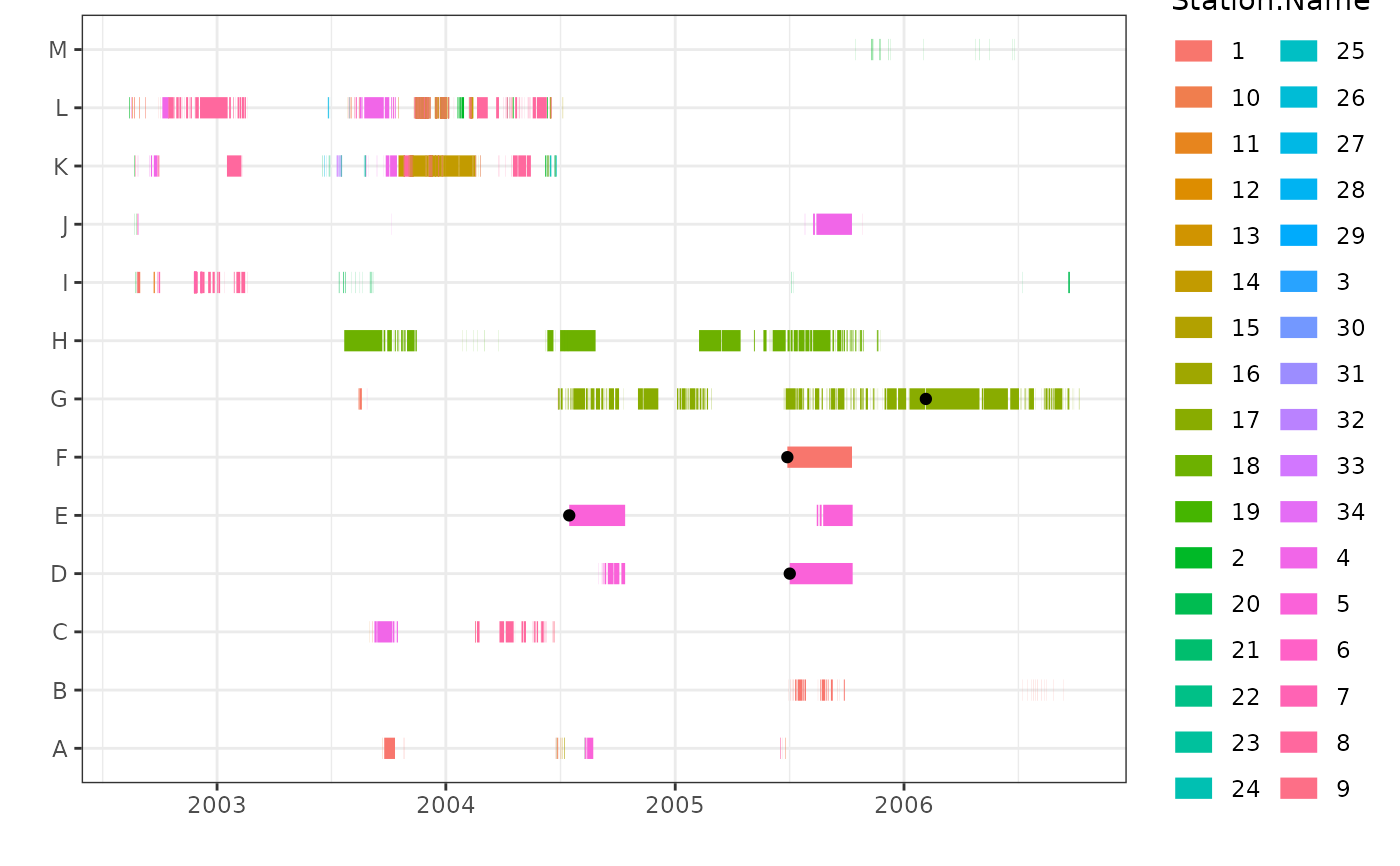
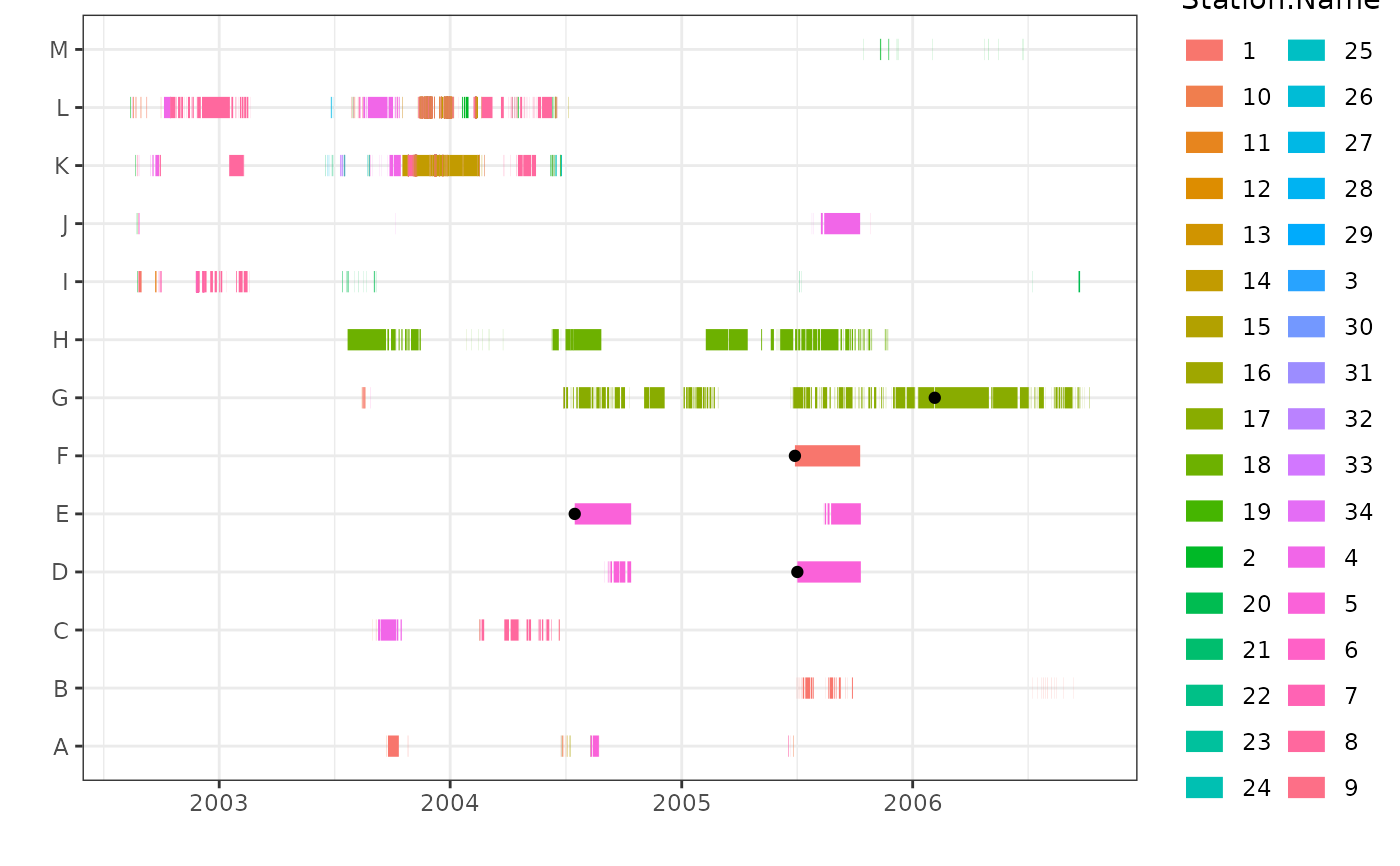
Deploying to gh-pages from @ rosieluain/mort@4745211d440eb67d4737c2b23f6f7956ba05a0dc 🚀

diff --git a/articles/a1_data-prep.html b/articles/a1_data-prep.html
@@ -98,7 +98,7 @@
       <h1 data-toc-skip>Formatting your data</h1>
             
       
-      <small class="dont-index">Source: <a href="https://github.com/rosieluain/mort/blob/main/vignettes/a1_data-prep.Rmd" class="external-link"><code>vignettes/a1_data-prep.Rmd</code></a></small>
+      <small class="dont-index">Source: <a href="https://github.com/rosieluain/mort/blob/0.0.2/vignettes/a1_data-prep.Rmd" class="external-link"><code>vignettes/a1_data-prep.Rmd</code></a></small>
       <div class="hidden name"><code>a1_data-prep.Rmd</code></div>
 
     </div>
@@ -359,7 +359,7 @@ functions.</li>
 
 <div class="pkgdown">
   <p></p>
-<p>Site built with <a href="https://pkgdown.r-lib.org/" class="external-link">pkgdown</a> 2.1.0.</p>
+<p>Site built with <a href="https://pkgdown.r-lib.org/" class="external-link">pkgdown</a> 2.1.1.</p>
 </div>
 
       </footer>

diff --git a/articles/a2_morts.html b/articles/a2_morts.html
@@ -98,7 +98,7 @@
       <h1 data-toc-skip>Identifying potential mortalities</h1>
             
       
-      <small class="dont-index">Source: <a href="https://github.com/rosieluain/mort/blob/main/vignettes/a2_morts.Rmd" class="external-link"><code>vignettes/a2_morts.Rmd</code></a></small>
+      <small class="dont-index">Source: <a href="https://github.com/rosieluain/mort/blob/0.0.2/vignettes/a2_morts.Rmd" class="external-link"><code>vignettes/a2_morts.Rmd</code></a></small>
       <div class="hidden name"><code>a2_morts.Rmd</code></div>
 
     </div>
@@ -561,7 +561,7 @@ as <code>start</code> and <code>end</code> arguments.</p>
 
 <div class="pkgdown">
   <p></p>
-<p>Site built with <a href="https://pkgdown.r-lib.org/" class="external-link">pkgdown</a> 2.1.0.</p>
+<p>Site built with <a href="https://pkgdown.r-lib.org/" class="external-link">pkgdown</a> 2.1.1.</p>
 </div>
 
       </footer>

diff --git a/articles/a3_drift.html b/articles/a3_drift.html
@@ -98,7 +98,7 @@
       <h1 data-toc-skip>Dead and drifting</h1>
             
       
-      <small class="dont-index">Source: <a href="https://github.com/rosieluain/mort/blob/main/vignettes/a3_drift.Rmd" class="external-link"><code>vignettes/a3_drift.Rmd</code></a></small>
+      <small class="dont-index">Source: <a href="https://github.com/rosieluain/mort/blob/0.0.2/vignettes/a3_drift.Rmd" class="external-link"><code>vignettes/a3_drift.Rmd</code></a></small>
       <div class="hidden name"><code>a3_drift.Rmd</code></div>
 
     </div>
@@ -304,7 +304,7 @@ for the other functions.</p>
 
 <div class="pkgdown">
   <p></p>
-<p>Site built with <a href="https://pkgdown.r-lib.org/" class="external-link">pkgdown</a> 2.1.0.</p>
+<p>Site built with <a href="https://pkgdown.r-lib.org/" class="external-link">pkgdown</a> 2.1.1.</p>
 </div>
 
       </footer>

diff --git a/articles/a4_season.html b/articles/a4_season.html
@@ -98,7 +98,7 @@
       <h1 data-toc-skip>Seasonality</h1>
             
       
-      <small class="dont-index">Source: <a href="https://github.com/rosieluain/mort/blob/main/vignettes/a4_season.Rmd" class="external-link"><code>vignettes/a4_season.Rmd</code></a></small>
+      <small class="dont-index">Source: <a href="https://github.com/rosieluain/mort/blob/0.0.2/vignettes/a4_season.Rmd" class="external-link"><code>vignettes/a4_season.Rmd</code></a></small>
       <div class="hidden name"><code>a4_season.Rmd</code></div>
 
     </div>
@@ -202,7 +202,7 @@ functions.</p>
 
 <div class="pkgdown">
   <p></p>
-<p>Site built with <a href="https://pkgdown.r-lib.org/" class="external-link">pkgdown</a> 2.1.0.</p>
+<p>Site built with <a href="https://pkgdown.r-lib.org/" class="external-link">pkgdown</a> 2.1.1.</p>
 </div>
 
       </footer>

diff --git a/articles/a5_plots.html b/articles/a5_plots.html
@@ -98,7 +98,7 @@
       <h1 data-toc-skip>Plotting your data</h1>
             
       
-      <small class="dont-index">Source: <a href="https://github.com/rosieluain/mort/blob/main/vignettes/a5_plots.Rmd" class="external-link"><code>vignettes/a5_plots.Rmd</code></a></small>
+      <small class="dont-index">Source: <a href="https://github.com/rosieluain/mort/blob/0.0.2/vignettes/a5_plots.Rmd" class="external-link"><code>vignettes/a5_plots.Rmd</code></a></small>
       <div class="hidden name"><code>a5_plots.Rmd</code></div>
 
     </div>
@@ -266,7 +266,7 @@ entering the following into the console:</p>
 
 <div class="pkgdown">
   <p></p>
-<p>Site built with <a href="https://pkgdown.r-lib.org/" class="external-link">pkgdown</a> 2.1.0.</p>
+<p>Site built with <a href="https://pkgdown.r-lib.org/" class="external-link">pkgdown</a> 2.1.1.</p>
 </div>
 
       </footer>

diff --git a/articles/a6_digging.html b/articles/a6_digging.html
@@ -98,7 +98,7 @@
       <h1 data-toc-skip>Digging into your data</h1>
             
       
-      <small class="dont-index">Source: <a href="https://github.com/rosieluain/mort/blob/main/vignettes/a6_digging.Rmd" class="external-link"><code>vignettes/a6_digging.Rmd</code></a></small>
+      <small class="dont-index">Source: <a href="https://github.com/rosieluain/mort/blob/0.0.2/vignettes/a6_digging.Rmd" class="external-link"><code>vignettes/a6_digging.Rmd</code></a></small>
       <div class="hidden name"><code>a6_digging.Rmd</code></div>
 
     </div>
@@ -394,7 +394,7 @@ be more than one row for each animal ID.</p>
 
 <div class="pkgdown">
   <p></p>
-<p>Site built with <a href="https://pkgdown.r-lib.org/" class="external-link">pkgdown</a> 2.1.0.</p>
+<p>Site built with <a href="https://pkgdown.r-lib.org/" class="external-link">pkgdown</a> 2.1.1.</p>
 </div>
 
       </footer>

diff --git a/articles/a7_review.html b/articles/a7_review.html
@@ -98,7 +98,7 @@
       <h1 data-toc-skip>Review new data</h1>
             
       
-      <small class="dont-index">Source: <a href="https://github.com/rosieluain/mort/blob/main/vignettes/a7_review.Rmd" class="external-link"><code>vignettes/a7_review.Rmd</code></a></small>
+      <small class="dont-index">Source: <a href="https://github.com/rosieluain/mort/blob/0.0.2/vignettes/a7_review.Rmd" class="external-link"><code>vignettes/a7_review.Rmd</code></a></small>
       <div class="hidden name"><code>a7_review.Rmd</code></div>
 
     </div>
@@ -229,7 +229,7 @@ function when drift is applied.</p>
 
 <div class="pkgdown">
   <p></p>
-<p>Site built with <a href="https://pkgdown.r-lib.org/" class="external-link">pkgdown</a> 2.1.0.</p>
+<p>Site built with <a href="https://pkgdown.r-lib.org/" class="external-link">pkgdown</a> 2.1.1.</p>
 </div>
 
       </footer>

diff --git a/authors.html b/authors.html
@@ -88,7 +88,7 @@
     <div class="section level2 citation-section">
     <div>
       <h1 id="citation">Citation</h1>
-      <small class="dont-index">Source: <a href="https://github.com/rosieluain/mort/blob/main/inst/CITATION" class="external-link"><code>inst/CITATION</code></a></small>
+      <small class="dont-index">Source: <a href="https://github.com/rosieluain/mort/blob/0.0.2/inst/CITATION" class="external-link"><code>inst/CITATION</code></a></small>
     </div>
     </div>
 
@@ -116,7 +116,7 @@ R package version 0.0.1, <a href="https://rosieluain.github.io/mort/" class="ext
 </div>
 
 <div class="pkgdown">
-  <p></p><p>Site built with <a href="https://pkgdown.r-lib.org/" class="external-link">pkgdown</a> 2.1.0.</p>
+  <p></p><p>Site built with <a href="https://pkgdown.r-lib.org/" class="external-link">pkgdown</a> 2.1.1.</p>
 </div>
 
       </footer></div>

diff --git a/news/index.html b/news/index.html
@@ -72,7 +72,7 @@
   <div class="col-md-9 contents">
     <div class="page-header">
       <h1 data-toc-skip>Changelog <small></small></h1>
-      <small>Source: <a href="https://github.com/rosieluain/mort/blob/main/NEWS.md" class="external-link"><code>NEWS.md</code></a></small>
+      <small>Source: <a href="https://github.com/rosieluain/mort/blob/0.0.2/NEWS.md" class="external-link"><code>NEWS.md</code></a></small>
     </div>
 
     <div class="section level2">
@@ -95,7 +95,7 @@
 </div>
 
 <div class="pkgdown">
-  <p></p><p>Site built with <a href="https://pkgdown.r-lib.org/" class="external-link">pkgdown</a> 2.1.0.</p>
+  <p></p><p>Site built with <a href="https://pkgdown.r-lib.org/" class="external-link">pkgdown</a> 2.1.1.</p>
 </div>
 
       </footer></div>

diff --git a/reference/backwards.html b/reference/backwards.html
@@ -73,7 +73,7 @@ station/location has not changed."><meta property="og:image" content="/logo.png"
   <div class="col-md-9 contents">
     <div class="page-header">
     <h1>Shift start time of potential mortalities earlier</h1>
-    <small class="dont-index">Source: <a href="https://github.com/rosieluain/mort/blob/main/R/options.R" class="external-link"><code>R/options.R</code></a></small>
+    <small class="dont-index">Source: <a href="https://github.com/rosieluain/mort/blob/0.0.2/R/options.R" class="external-link"><code>R/options.R</code></a></small>
     <div class="hidden name"><code>backwards.Rd</code></div>
     </div>
 
@@ -201,7 +201,7 @@ input data) will be retained.</p>
 </div>
 
 <div class="pkgdown">
-  <p></p><p>Site built with <a href="https://pkgdown.r-lib.org/" class="external-link">pkgdown</a> 2.1.0.</p>
+  <p></p><p>Site built with <a href="https://pkgdown.r-lib.org/" class="external-link">pkgdown</a> 2.1.1.</p>
 </div>
 
       </footer></div>

diff --git a/reference/ddd.html b/reference/ddd.html
@@ -74,7 +74,7 @@ connected by drift and in which direction) are real."><meta property="og:image" 
   <div class="col-md-9 contents">
     <div class="page-header">
     <h1>Sample dead drift direction dataframe</h1>
-    <small class="dont-index">Source: <a href="https://github.com/rosieluain/mort/blob/main/R/data.R" class="external-link"><code>R/data.R</code></a></small>
+    <small class="dont-index">Source: <a href="https://github.com/rosieluain/mort/blob/0.0.2/R/data.R" class="external-link"><code>R/data.R</code></a></small>
     <div class="hidden name"><code>ddd.Rd</code></div>
     </div>
 
@@ -111,7 +111,7 @@ connected by drift and in which direction) are real.</p>
 </div>
 
 <div class="pkgdown">
-  <p></p><p>Site built with <a href="https://pkgdown.r-lib.org/" class="external-link">pkgdown</a> 2.1.0.</p>
+  <p></p><p>Site built with <a href="https://pkgdown.r-lib.org/" class="external-link">pkgdown</a> 2.1.1.</p>
 </div>
 
       </footer></div>

diff --git a/reference/detections.html b/reference/detections.html
@@ -81,7 +81,7 @@ data."><meta property="og:image" content="/logo.png"><!-- mathjax --><script src
   <div class="col-md-9 contents">
     <div class="page-header">
     <h1>Sample acoustic telemetry detection data</h1>
-    <small class="dont-index">Source: <a href="https://github.com/rosieluain/mort/blob/main/R/data.R" class="external-link"><code>R/data.R</code></a></small>
+    <small class="dont-index">Source: <a href="https://github.com/rosieluain/mort/blob/0.0.2/R/data.R" class="external-link"><code>R/data.R</code></a></small>
     <div class="hidden name"><code>detections.Rd</code></div>
     </div>
 
@@ -127,7 +127,7 @@ data are in UTC, as downloaded from the receivers.</p></li>
 </div>
 
 <div class="pkgdown">
-  <p></p><p>Site built with <a href="https://pkgdown.r-lib.org/" class="external-link">pkgdown</a> 2.1.0.</p>
+  <p></p><p>Site built with <a href="https://pkgdown.r-lib.org/" class="external-link">pkgdown</a> 2.1.1.</p>
 </div>
 
       </footer></div>